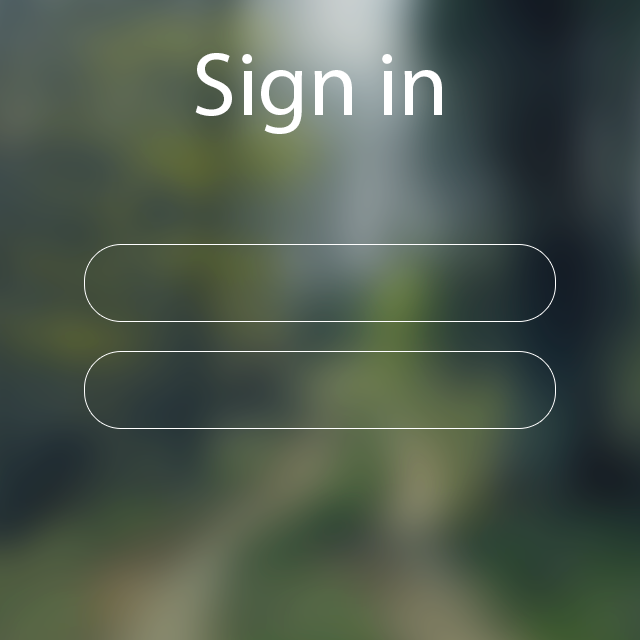
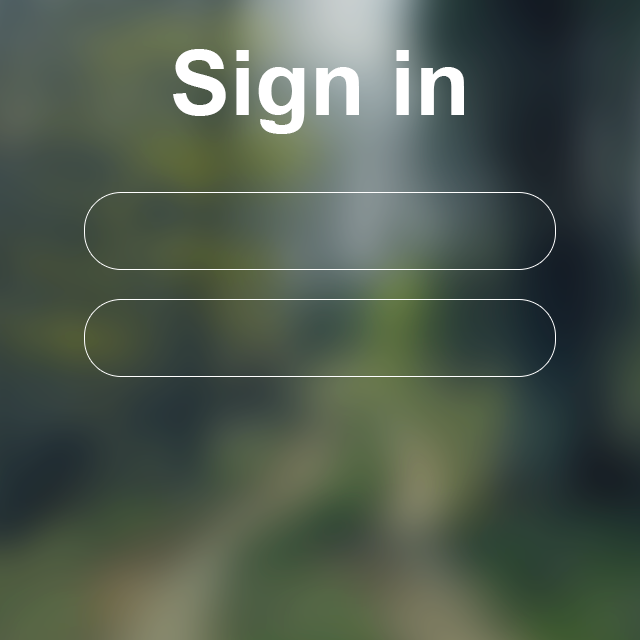
new sign in

diff --git a/src/invoicebilling/Frame.java b/src/invoicebilling/Frame.java
@@ -36,7 +36,8 @@ public class Frame extends javax.swing.JFrame {
         setSize(new java.awt.Dimension(0, 0));
         getContentPane().setLayout(null);
 
-        loginButton.setIcon(new javax.swing.ImageIcon(getClass().getResource("/img/signInButton.png"))); // NOI18N
+        loginButton.setHorizontalAlignment(javax.swing.SwingConstants.CENTER);
+        loginButton.setIcon(new javax.swing.ImageIcon(getClass().getResource("/img/signin23.png"))); // NOI18N
         loginButton.addMouseListener(new java.awt.event.MouseAdapter() {
             public void mouseClicked(java.awt.event.MouseEvent evt) {
                 loginButtonMouseClicked(evt);
@@ -55,7 +56,7 @@ public class Frame extends javax.swing.JFrame {
             }
         });
         getContentPane().add(loginButton);
-        loginButton.setBounds(120, 630, 200, 53);
+        loginButton.setBounds(270, 610, 170, 90);
 
         backGround.setIcon(new javax.swing.ImageIcon(getClass().getResource("/img/BG.png"))); // NOI18N
         getContentPane().add(backGround);
@@ -66,27 +67,27 @@ public class Frame extends javax.swing.JFrame {
 
     private void loginButtonMouseEntered(java.awt.event.MouseEvent evt) {//GEN-FIRST:event_loginButtonMouseEntered
         // TODO add your handling code here:
-        loginButton.setIcon(new javax.swing.ImageIcon(getClass().getResource("/img/signInHover.png")));
+        loginButton.setIcon(new javax.swing.ImageIcon(getClass().getResource("/img/signin25.png")));
     }//GEN-LAST:event_loginButtonMouseEntered
 
     private void loginButtonMouseExited(java.awt.event.MouseEvent evt) {//GEN-FIRST:event_loginButtonMouseExited
         // TODO add your handling code here:
-        loginButton.setIcon(new javax.swing.ImageIcon(getClass().getResource("/img/signInButton.png")));
+        loginButton.setIcon(new javax.swing.ImageIcon(getClass().getResource("/img/signin23.png")));
     }//GEN-LAST:event_loginButtonMouseExited
 
     private void loginButtonMousePressed(java.awt.event.MouseEvent evt) {//GEN-FIRST:event_loginButtonMousePressed
         // TODO add your handling code here:
-        loginButton.setIcon(new javax.swing.ImageIcon(getClass().getResource("/img/signInClick.png")));
+
     }//GEN-LAST:event_loginButtonMousePressed
 
     private void loginButtonMouseReleased(java.awt.event.MouseEvent evt) {//GEN-FIRST:event_loginButtonMouseReleased
         // TODO add your handling code here:
-        loginButton.setIcon(new javax.swing.ImageIcon(getClass().getResource("/img/signInButton.png")));
+
     }//GEN-LAST:event_loginButtonMouseReleased
 
     private void loginButtonMouseClicked(java.awt.event.MouseEvent evt) {//GEN-FIRST:event_loginButtonMouseClicked
         // TODO add your handling code here:
-        loginFrame loginFrame = new loginFrame();
+        SignInFrame loginFrame = new SignInFrame();
         loginFrame.setVisible(true);
     }//GEN-LAST:event_loginButtonMouseClicked
 

diff --git a/src/invoicebilling/SignInFrame.java b/src/invoicebilling/SignInFrame.java
@@ -8,12 +8,12 @@ package invoicebilling;
  *
  * @author nguye
  */
-public class loginFrame extends javax.swing.JFrame {
+public class SignInFrame extends javax.swing.JFrame {
 
     /**
      * Creates new form loginFrame
      */
-    public loginFrame() {
+    public SignInFrame() {
         initComponents();
     }
 
@@ -33,7 +33,6 @@ public class loginFrame extends javax.swing.JFrame {
 
         setDefaultCloseOperation(javax.swing.WindowConstants.EXIT_ON_CLOSE);
         setMinimumSize(new java.awt.Dimension(640, 640));
-        setPreferredSize(new java.awt.Dimension(0, 0));
         getContentPane().setLayout(null);
 
         loginButton.setIcon(new javax.swing.ImageIcon(getClass().getResource("/img/signInButton.png"))); // NOI18N
@@ -191,20 +190,21 @@ public class loginFrame extends javax.swing.JFrame {
                 }
             }
         } catch (ClassNotFoundException ex) {
-            java.util.logging.Logger.getLogger(loginFrame.class.getName()).log(java.util.logging.Level.SEVERE, null, ex);
+            java.util.logging.Logger.getLogger(SignInFrame.class.getName()).log(java.util.logging.Level.SEVERE, null, ex);
         } catch (InstantiationException ex) {
-            java.util.logging.Logger.getLogger(loginFrame.class.getName()).log(java.util.logging.Level.SEVERE, null, ex);
+            java.util.logging.Logger.getLogger(SignInFrame.class.getName()).log(java.util.logging.Level.SEVERE, null, ex);
         } catch (IllegalAccessException ex) {
-            java.util.logging.Logger.getLogger(loginFrame.class.getName()).log(java.util.logging.Level.SEVERE, null, ex);
+            java.util.logging.Logger.getLogger(SignInFrame.class.getName()).log(java.util.logging.Level.SEVERE, null, ex);
         } catch (javax.swing.UnsupportedLookAndFeelException ex) {
-            java.util.logging.Logger.getLogger(loginFrame.class.getName()).log(java.util.logging.Level.SEVERE, null, ex);
+            java.util.logging.Logger.getLogger(SignInFrame.class.getName()).log(java.util.logging.Level.SEVERE, null, ex);
         }
+        //</editor-fold>
         //</editor-fold>
 
         /* Create and display the form */
         java.awt.EventQueue.invokeLater(new Runnable() {
             public void run() {
-                new loginFrame().setVisible(true);
+                new SignInFrame().setVisible(true);
             }
         });
     }
